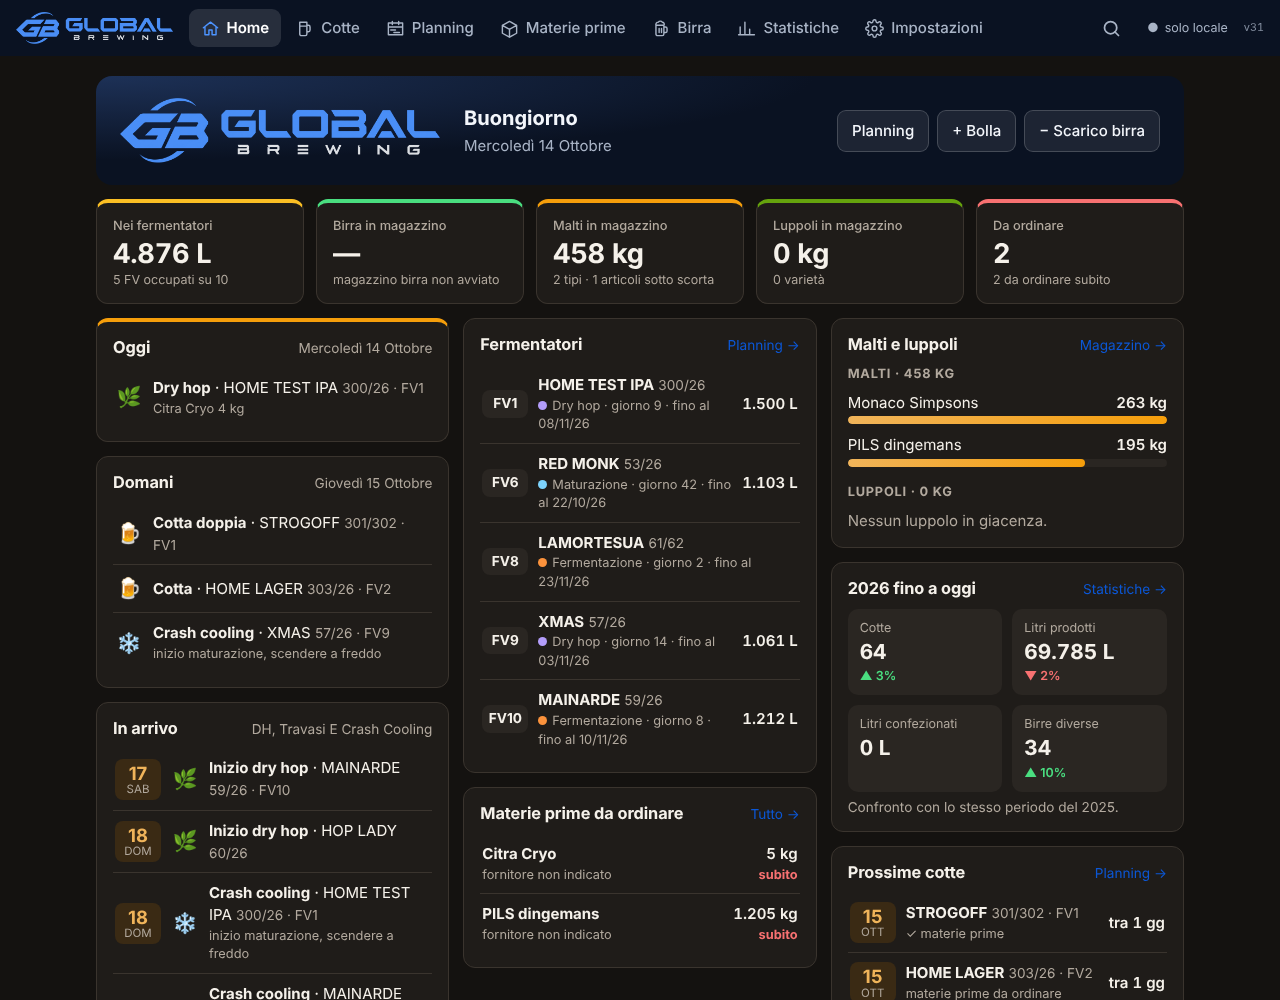
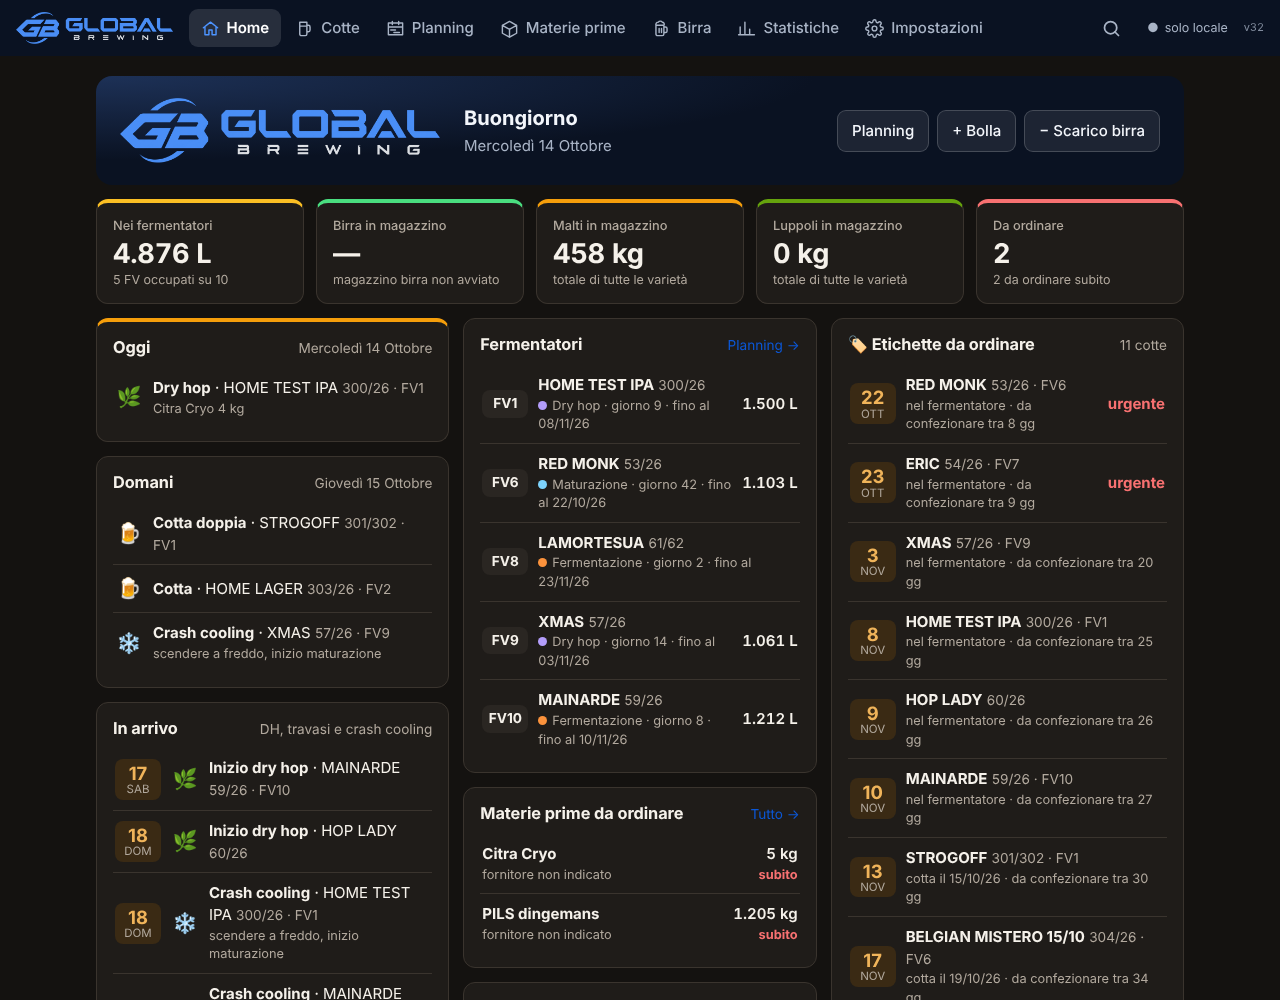
Home: etichette da ordinare (cotte pianificate e nei fermentatori senza etichette pronte)
Claude-Session: https://claude.ai/code/session_01Dzk28i5ZVFswZAUHGLeHZX

diff --git a/js/vista-home.js b/js/vista-home.js
@@ -106,6 +106,17 @@ export async function vistaHome() {
     .sort((a, b) => a.data.localeCompare(b.data));
   const prossimeLotti = [];
   for (const c of prossime) if (!prossimeLotti.some(g => g.some(x => x.id === c.id))) prossimeLotti.push(gruppoCotta(c, cotte));
+  // etichette da ordinare: cotte pianificate o ancora nei fermentatori senza la spunta "Etichette pronte"
+  // (le etichette sono del lotto: basta la spunta su una cotta). Servono per il confezionamento: ordine per fine in FV.
+  const senzaEtichette = [];
+  for (const c of cotte) {
+    if (c.eliminato || !c.data || senzaEtichette.some(x => x.g.some(y => y.id === c.id))) continue;
+    if (!['pianificata', 'tank'].includes(statoCotta(c, stato.durate, oggi, cotte))) continue;
+    const g = gruppoCotta(c, cotte);
+    if (g.some(x => x.etichetteOk)) continue;
+    senzaEtichette.push({ g, fine: fineCotta(g[0], stato.durate), inFv: g[0].data <= oggi });
+  }
+  senzaEtichette.sort((x, y) => x.fine.localeCompare(y.fine));
 
   const att = [[oggi, 'Oggi'], [domani, 'Domani']].map(([d, titolo]) => ({ d, titolo, voci: attivitaGiorno(cotte, d, ctx) }));
   // DH, travasi e crash cooling previsti nei giorni dopo (fino a una settimana)
@@ -182,12 +193,23 @@ export async function vistaHome() {
         <p class="totale" style="margin-bottom:0">Confronto con lo stesso periodo del ${anno - 1}.</p>
       </section>
 
+      <section class="widget w-etichette">
+        <header><h2>${SIMBOLI.etichette} Etichette da ordinare</h2><span class="totale">${senzaEtichette.length ? `${senzaEtichette.length} cotte` : ''}</span></header>
+        ${senzaEtichette.length ? html`<ul class="w-lista">${senzaEtichette.slice(0, 8).map(({ g, fine, inFv }) => { const gg = diffGiorni(oggi, fine); return html`<li><a href="#/cotta/${encodeURIComponent(g[0].id)}">
+          <span class="w-data"><b>${new Date(`${fine}T12:00:00`).getDate()}</b>${new Date(`${fine}T12:00:00`).toLocaleDateString('it-IT', { month: 'short' })}</span>
+          <span class="w-testo"><b>${g[0].birra}</b> <span class="totale">${g.length > 1 ? lottoGruppo(g) : g[0].lotto}${g[0].fv ? ` · ${g[0].fv}` : ''}</span><small>${inFv ? 'nel fermentatore' : `cotta il ${dataIT(g[0].data)}`} · da confezionare ${gg <= 0 ? 'ora' : `tra ${gg} gg`}</small></span>
+          <span class="w-num ${gg <= 14 ? 'w-urgente' : ''}">${gg <= 14 ? 'urgente' : ''}</span></a></li>`; })}</ul>
+          ${senzaEtichette.length > 8 ? html`<p class="totale">e altre ${senzaEtichette.length - 8}…</p>` : ''}
+          <p class="totale" style="margin-bottom:0">Quando le hai, spunta "Etichette pronte" nella cotta.</p>`
+          : html`<p class="w-vuoto">✓ Etichette pronte per tutte le cotte pianificate.</p>`}
+      </section>
+
       <section class="widget w-prossime">
         <header><h2>Prossime cotte</h2><a class="totale" href="#/planning">Planning →</a></header>
         ${prossimeLotti.length ? html`<ul class="w-lista">${prossimeLotti.slice(0, 5).map(g => html`<li><a href="#/cotta/${encodeURIComponent(g[0].id)}">
           <span class="w-data"><b>${new Date(`${g[0].data}T12:00:00`).getDate()}</b>${new Date(`${g[0].data}T12:00:00`).toLocaleDateString('it-IT', { month: 'short' })}</span>
           <span class="w-testo"><b>${g[0].birra}</b> <span class="totale">${g.length > 1 ? lottoGruppo(g) : g[0].lotto}${g[0].fv ? ` · ${g[0].fv}` : ''}</span>
-            <small>${[g.every(x => x.materiePrime) ? '✓ materie prime' : 'materie prime da ordinare', g.every(x => x.lievitoOk) ? `${SIMBOLI.lievito} lievito ok` : '', g.every(x => x.etichetteOk) ? `${SIMBOLI.etichette} etichette ok` : ''].filter(Boolean).join(' · ')}</small></span>
+            <small>${[g.every(x => x.materiePrime) ? '✓ materie prime' : 'materie prime da ordinare', g.every(x => x.lievitoOk) ? `${SIMBOLI.lievito} lievito ok` : '', g.some(x => x.etichetteOk) ? `${SIMBOLI.etichette} etichette ok` : ''].filter(Boolean).join(' · ')}</small></span>
           <span class="w-num">tra ${diffGiorni(oggi, g[0].data)} gg</span></a></li>`)}</ul>`
           : html`<p class="w-vuoto">Nessuna cotta pianificata.</p>`}
       </section>

diff --git a/sw.js b/sw.js
@@ -1,6 +1,6 @@
 // Service worker: tiene in cache l'app così si apre anche senza internet.
 // Cambiare VERSIONE a ogni rilascio per far scaricare i file aggiornati.
-const VERSIONE = 'birrificio-v60';
+const VERSIONE = 'birrificio-v61';
 const FILE = [
   './', 'index.html', 'styles.css', 'manifest.webmanifest', 'icon.svg', 'icon-192.png', 'icon-512.png', 'img/logo-kashmir.png', 'img/gb-logo.png', 'img/gb-logo-chiaro.png', 'img/gb-monogramma.png', 'img/gb-monogramma-chiaro.png', 'img/gb-anim-lettere.png', 'img/gb-anim-arco-su.png', 'img/gb-anim-arco-giu.png', 'img/gb-anim-scritta.png',
   'js/app.js', 'js/auth.js', 'js/config.js', 'js/serbatoio.js', 'js/brewfather.js', 'js/db.js', 'js/dominio.js', 'js/sync.js', 'js/xlsx.js', 'js/versione.js', 'js/magazzino.js', 'js/vista-magazzino.js', 'js/bolla-pdf.js', 'js/vista-statistiche.js', 'js/grafico-ferm.js', 'js/birra.js', 'js/vista-birra.js', 'js/costi.js', 'js/vista-costi.js', 'js/ordine.js', 'js/vista-ordine.js', 'js/vista-cerca.js', 'js/backup.js', 'js/allegati.js', 'js/listini.js', 'js/vista-listini.js', 'js/vista-home.js', 'js/logo-kashmir.js', 'js/etichetta.js', 'data/storico.json',
